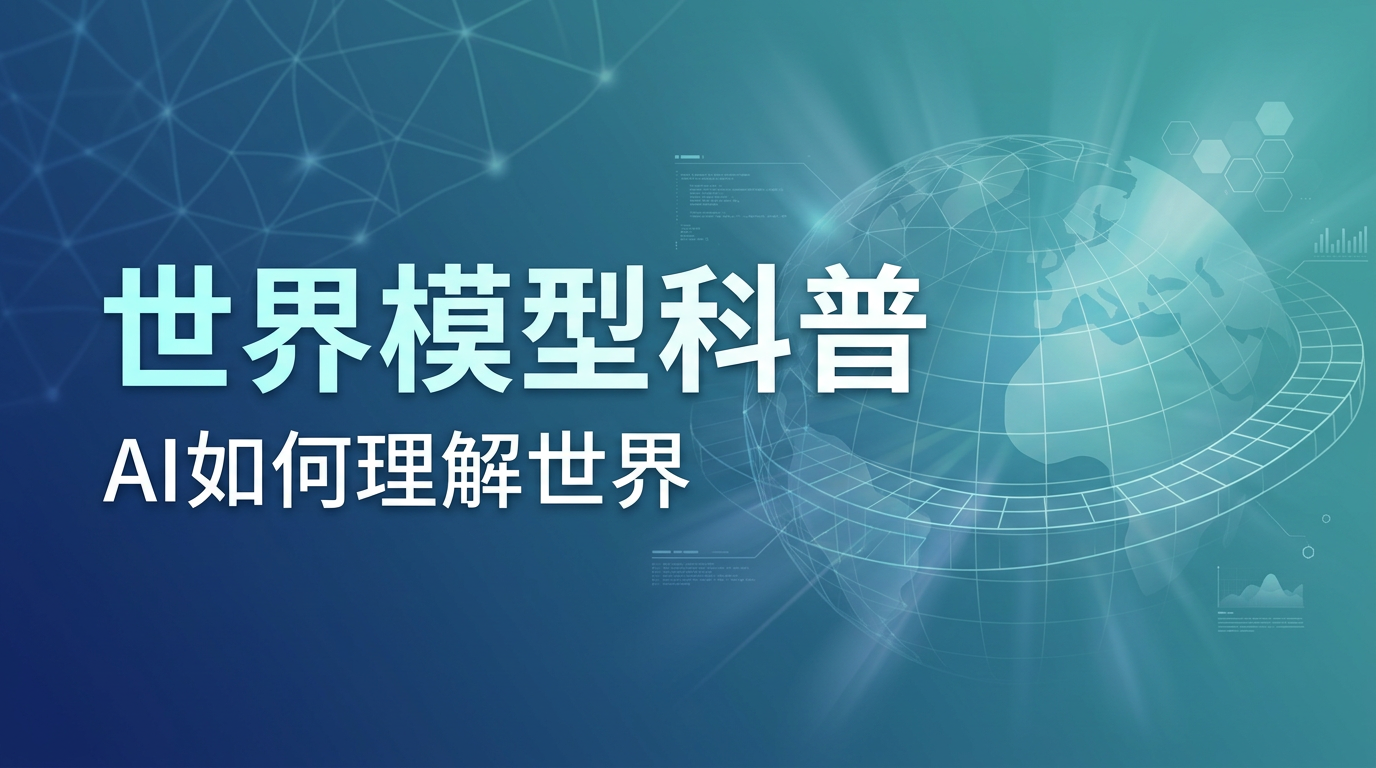
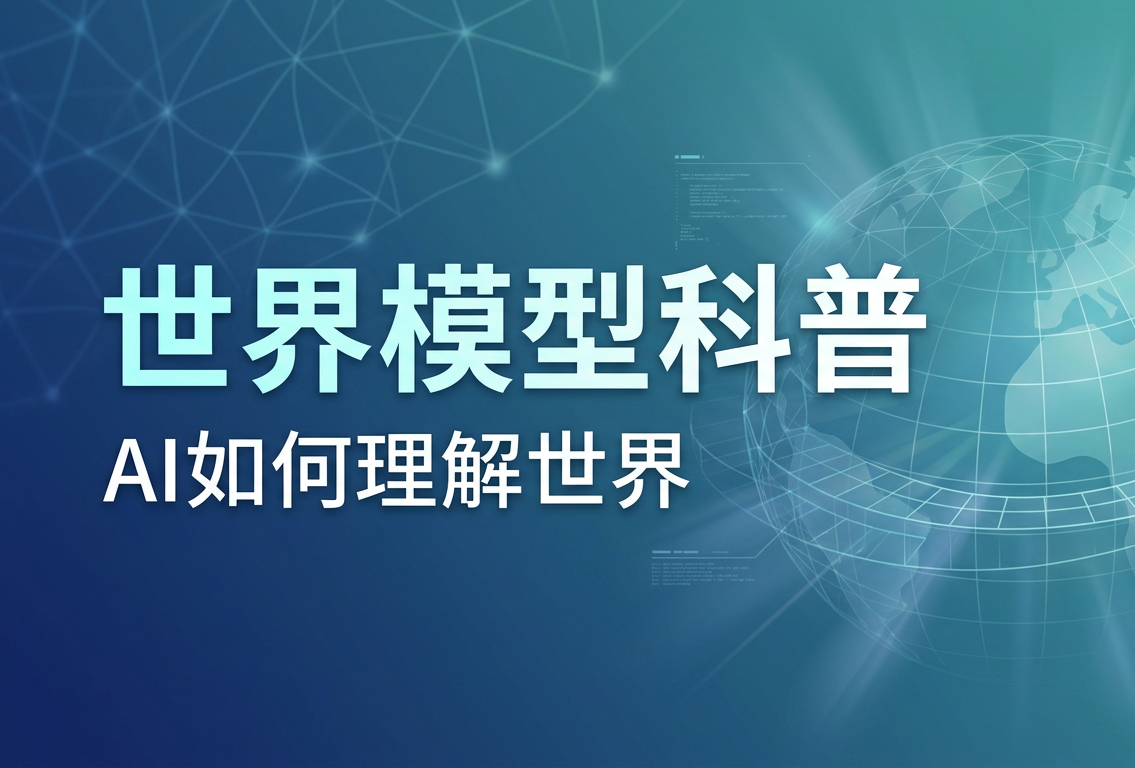
V1.21

diff --git a/script.js b/script.js
@@ -16,21 +16,21 @@
 
   const FALLBACK_DATA = {
     'data/carousel.json': [
-      { title_en:"Industrial ChatBI Platform", title_zh:"工业ChatBI智能对话分析平台", subtitle:"NL2SQL · Streamlit · Qwen", cover:"images/projects/chatbi-oee.svg", url:"https://github.com/sharp-007/ChatBI_OEE" },
-      { title_en:"Industrial Knowledge Q&A · RAG", title_zh:"工业知识库智能问答系统", subtitle:"LangChain · ChromaDB · React", cover:"images/projects/rag-qa.svg", url:"https://github.com/sharp-007/industrial_agent_mini_demo" },
+      { title_en:"Industrial ChatBI Platform", title_zh:"工业ChatBI智能对话分析平台", subtitle:"NL2SQL · Streamlit · Qwen", cover:"images/projects/chatbi-oee.png", url:"https://github.com/sharp-007/ChatBI_OEE" },
+      { title_en:"Industrial Knowledge Q&A · RAG", title_zh:"工业知识库智能问答系统", subtitle:"LangChain · ChromaDB · React", cover:"images/projects/rag-qa.png", url:"https://github.com/sharp-007/industrial_agent_mini_demo" },
       { title_en:"Light Everywhere", title_zh:"城市角落的光 | AI原创音乐MV | 原创动画短片", subtitle:"AIGC Short Film · AI Music & Visuals", cover:"https://img.youtube.com/vi/OMIchR2C6qs/hqdefault.jpg", url:"https://www.youtube.com/watch?v=OMIchR2C6qs" },
       { title_en:"DOE Introduction Course", title_zh:"DOE入门课：60分钟掌握DOE", subtitle:"JMP · DOE · Public Course", cover:"images/talks/doe-intro.png", url:"https://www.jmp.com/zh-hans/resources/on-demand/local/jmp-doe-from-zero-on-demand" },
-      { title_en:"Industrial Defect Detection · YOLO11", title_zh:"工业缺陷智能检测系统", subtitle:"YOLO11 · Deep Learning · Quality Control", cover:"images/projects/defect-detection.svg", url:"https://github.com/sharp-007/carbon_fiber_defect_detection_system_python3.10" }
+      { title_en:"Industrial Defect Detection · YOLO11", title_zh:"工业缺陷智能检测系统", subtitle:"YOLO11 · Deep Learning · Quality Control", cover:"images/projects/defect-detection.png", url:"https://github.com/sharp-007/carbon_fiber_defect_detection_system_python3.10" }
     ],
     'data/projects.json': [
-      { title_en:"Industrial ChatBI Platform", title_zh:"工业ChatBI智能对话分析平台", desc_en:"OEE analytics combining traditional BI dashboards with NL2SQL conversational analysis", desc_zh:"面向制造业OEE场景，融合传统BI仪表盘与AI对话式分析双模式", cover:"images/projects/chatbi-oee.svg", url:"https://github.com/sharp-007/ChatBI_OEE", id:"project-chatbi", featured:true },
-      { title_en:"Industrial Defect Detection · YOLO11", title_zh:"工业缺陷智能检测系统", desc_en:"Deep learning object detection replacing manual inspection for quality control", desc_zh:"基于YOLO11的深度学习目标检测，以智能检测替代人工检测", cover:"images/projects/defect-detection.svg", url:"https://github.com/sharp-007/carbon_fiber_defect_detection_system_python3.10", id:"project-defect", featured:true },
-      { title_en:"Industrial Knowledge Q&A · RAG", title_zh:"工业知识库智能问答系统", desc_en:"RAG-based intelligent Q&A system for industrial equipment maintenance knowledge", desc_zh:"基于RAG的本地部署智能问答系统，赋能工业设备维护知识管理", cover:"images/projects/rag-qa.svg", url:"https://github.com/sharp-007/industrial_agent_mini_demo", id:"project-rag", featured:true },
-      { title_en:"Dify Agents · RAG + TTS", title_zh:"Dify智能体合集 · RAG + TTS", desc_en:"RAG-based statistical analysis assistant and Doubao-powered TTS workflow", desc_zh:"基于Dify构建的RAG统计分析助手和豆包TTS语音工作流", cover:"images/projects/dify-agents.svg", url:"https://github.com/sharp-007/Dify_Agents", id:"project-dify", featured:true },
-      { title_en:"AssetOpsBench Agent", title_zh:"资产运维智能体", desc_en:"AI agent demo based on IBM AssetOpsBench for asset management operations", desc_zh:"基于IBM AssetOpsBench的资产管理运维AI Agent演示", cover:"images/projects/assetops.svg", url:"https://github.com/sharp-007/mini_demo_with_AssetOpsBench", id:"", featured:false },
-      { title_en:"Kaggle Dogs vs Cats · PyTorch", title_zh:"Kaggle猫狗分类 · PyTorch", desc_en:"Image classification using PyTorch with transfer learning", desc_zh:"基于PyTorch的图像分类与迁移学习项目", cover:"images/projects/kaggle-cats.svg", url:"https://github.com/sharp-007/Kaggle_Dogs_vs_Cats_PyTorch", id:"", featured:false },
-      { title_en:"Glass Panel Quality · Random Forest", title_zh:"玻璃面板质量分析 · 随机森林", desc_en:"Applied Random Forest for defect classification and key factor identification, AUC 0.92", desc_zh:"应用随机森林模型预测缺陷分类并识别关键因子，AUC达0.92", cover:"images/projects/arcing-rf.svg", url:"https://github.com/sharp-007/Arcing-Issue-Solution-with-Random-Forest", id:"", featured:false },
-      { title_en:"Hexi Corridor Silk Road", title_zh:"河西走廊丝绸之路之旅", desc_en:"Data-driven journey combining JMP interactive visualization with travel storytelling", desc_zh:"数据驱动的丝绸之路之旅，结合JMP交互式数据可视化与旅行叙事", cover:"images/projects/hexi-corridor.svg", url:"https://github.com/sharp-007/Hexi-Corridor-Silk-Road", id:"", featured:false }
+      { title_en:"Industrial ChatBI Platform", title_zh:"工业ChatBI智能对话分析平台", desc_en:"OEE analytics combining traditional BI dashboards with NL2SQL conversational analysis", desc_zh:"面向制造业OEE场景，融合传统BI仪表盘与AI对话式分析双模式", cover:"images/projects/chatbi-oee.png", url:"https://github.com/sharp-007/ChatBI_OEE", id:"project-chatbi", featured:true },
+      { title_en:"Industrial Defect Detection · YOLO11", title_zh:"工业缺陷智能检测系统", desc_en:"Deep learning object detection replacing manual inspection for quality control", desc_zh:"基于YOLO11的深度学习目标检测，以智能检测替代人工检测", cover:"images/projects/defect-detection.png", url:"https://github.com/sharp-007/carbon_fiber_defect_detection_system_python3.10", id:"project-defect", featured:true },
+      { title_en:"Industrial Knowledge Q&A · RAG", title_zh:"工业知识库智能问答系统", desc_en:"RAG-based intelligent Q&A system for industrial equipment maintenance knowledge", desc_zh:"基于RAG的本地部署智能问答系统，赋能工业设备维护知识管理", cover:"images/projects/rag-qa.png", url:"https://github.com/sharp-007/industrial_agent_mini_demo", id:"project-rag", featured:true },
+      { title_en:"Dify Agents · RAG + TTS", title_zh:"Dify智能体合集 · RAG + TTS", desc_en:"RAG-based statistical analysis assistant and Doubao-powered TTS workflow", desc_zh:"基于Dify构建的RAG统计分析助手和豆包TTS语音工作流", cover:"images/projects/dify-agents.png", url:"https://github.com/sharp-007/Dify_Agents", id:"project-dify", featured:true },
+      { title_en:"AssetOpsBench Agent", title_zh:"资产运维智能体", desc_en:"AI agent demo based on IBM AssetOpsBench for asset management operations", desc_zh:"基于IBM AssetOpsBench的资产管理运维AI Agent演示", cover:"images/projects/assetops.png", url:"https://github.com/sharp-007/mini_demo_with_AssetOpsBench", id:"", featured:false },
+      { title_en:"Kaggle Dogs vs Cats · PyTorch", title_zh:"Kaggle猫狗分类 · PyTorch", desc_en:"Image classification using PyTorch with transfer learning", desc_zh:"基于PyTorch的图像分类与迁移学习项目", cover:"images/projects/kaggle-cats.png", url:"https://github.com/sharp-007/Kaggle_Dogs_vs_Cats_PyTorch", id:"", featured:false },
+      { title_en:"Glass Panel Quality · Random Forest", title_zh:"玻璃面板质量分析 · 随机森林", desc_en:"Applied Random Forest for defect classification and key factor identification, AUC 0.92", desc_zh:"应用随机森林模型预测缺陷分类并识别关键因子，AUC达0.92", cover:"images/projects/arcing-rf.png", url:"https://github.com/sharp-007/Arcing-Issue-Solution-with-Random-Forest", id:"", featured:false },
+      { title_en:"Hexi Corridor Silk Road", title_zh:"河西走廊丝绸之路之旅", desc_en:"Data-driven journey combining JMP interactive visualization with travel storytelling", desc_zh:"数据驱动的丝绸之路之旅，结合JMP交互式数据可视化与旅行叙事", cover:"images/projects/hexi-corridor.png", url:"https://github.com/sharp-007/Hexi-Corridor-Silk-Road", id:"", featured:false }
     ],
     'data/blogs.json': [
       { title_en:"Understanding How LLMs Reshape Data Platforms in One Diagram", title_zh:"一图理解大模型如何重塑数据平台", cover:"images/blogs/impact_diagram_zh.png", url:"https://mp.weixin.qq.com/s/eIQ0NeJ9hnBqkX6ueDvy2A", date:"2026-04-20" },

diff --git a/index.html b/index.html
@@ -157,7 +157,7 @@
     </div>
 
     <!-- Skills inline -->
-    <h3 class="subsection-title fade-in" data-en="Skills" data-zh="技能">Skills</h3>
+    <h3 class="subsection-title fade-in" data-en="Professional Skills" data-zh="职业技能">Professional Skills</h3>
     <div class="skills-inline fade-in">
       <div class="skill-group">
         <span class="skill-group-label" data-en="Programming & Data Science" data-zh="编程与数据科学">Programming &amp; Data Science</span>
@@ -198,7 +198,7 @@
 <!-- ===== BLOG ===== -->
 <section class="section" id="blog">
   <div class="section-inner">
-    <h2 class="section-title fade-in" data-en="Blog & Articles" data-zh="博客与文章">Blog &amp; Articles</h2>
+    <h2 class="section-title fade-in" data-en="Blog & Articles" data-zh="博客文章">Blog &amp; Articles</h2>
     <p class="section-subtitle fade-in" data-en="AI product/project practice, personal reflections and industry insights" data-zh="AI产品与项目实践 | 个人思考 | 行业洞察">AI产品与项目实践 | 个人思考 | 行业洞察</p>
 
     <div id="blogs-grid">
@@ -210,7 +210,7 @@
 <!-- ===== TALKS ===== -->
 <section class="section" id="talks">
   <div class="section-inner">
-    <h2 class="section-title fade-in" data-en="Talks" data-zh="演讲">Talks</h2>
+    <h2 class="section-title fade-in" data-en="Talks & Webinars" data-zh="技术分享">Talks &amp; Webinars</h2>
     <p class="section-subtitle fade-in" data-en="DOE & SQM webinar series for R&D, process and quality engineers" data-zh="面向研发、工艺和质量工程师的实验设计与统计质量管理系列">DOE &amp; SQM webinar series for R&D, process and quality engineers</p>
 
     <div id="talks-grid">